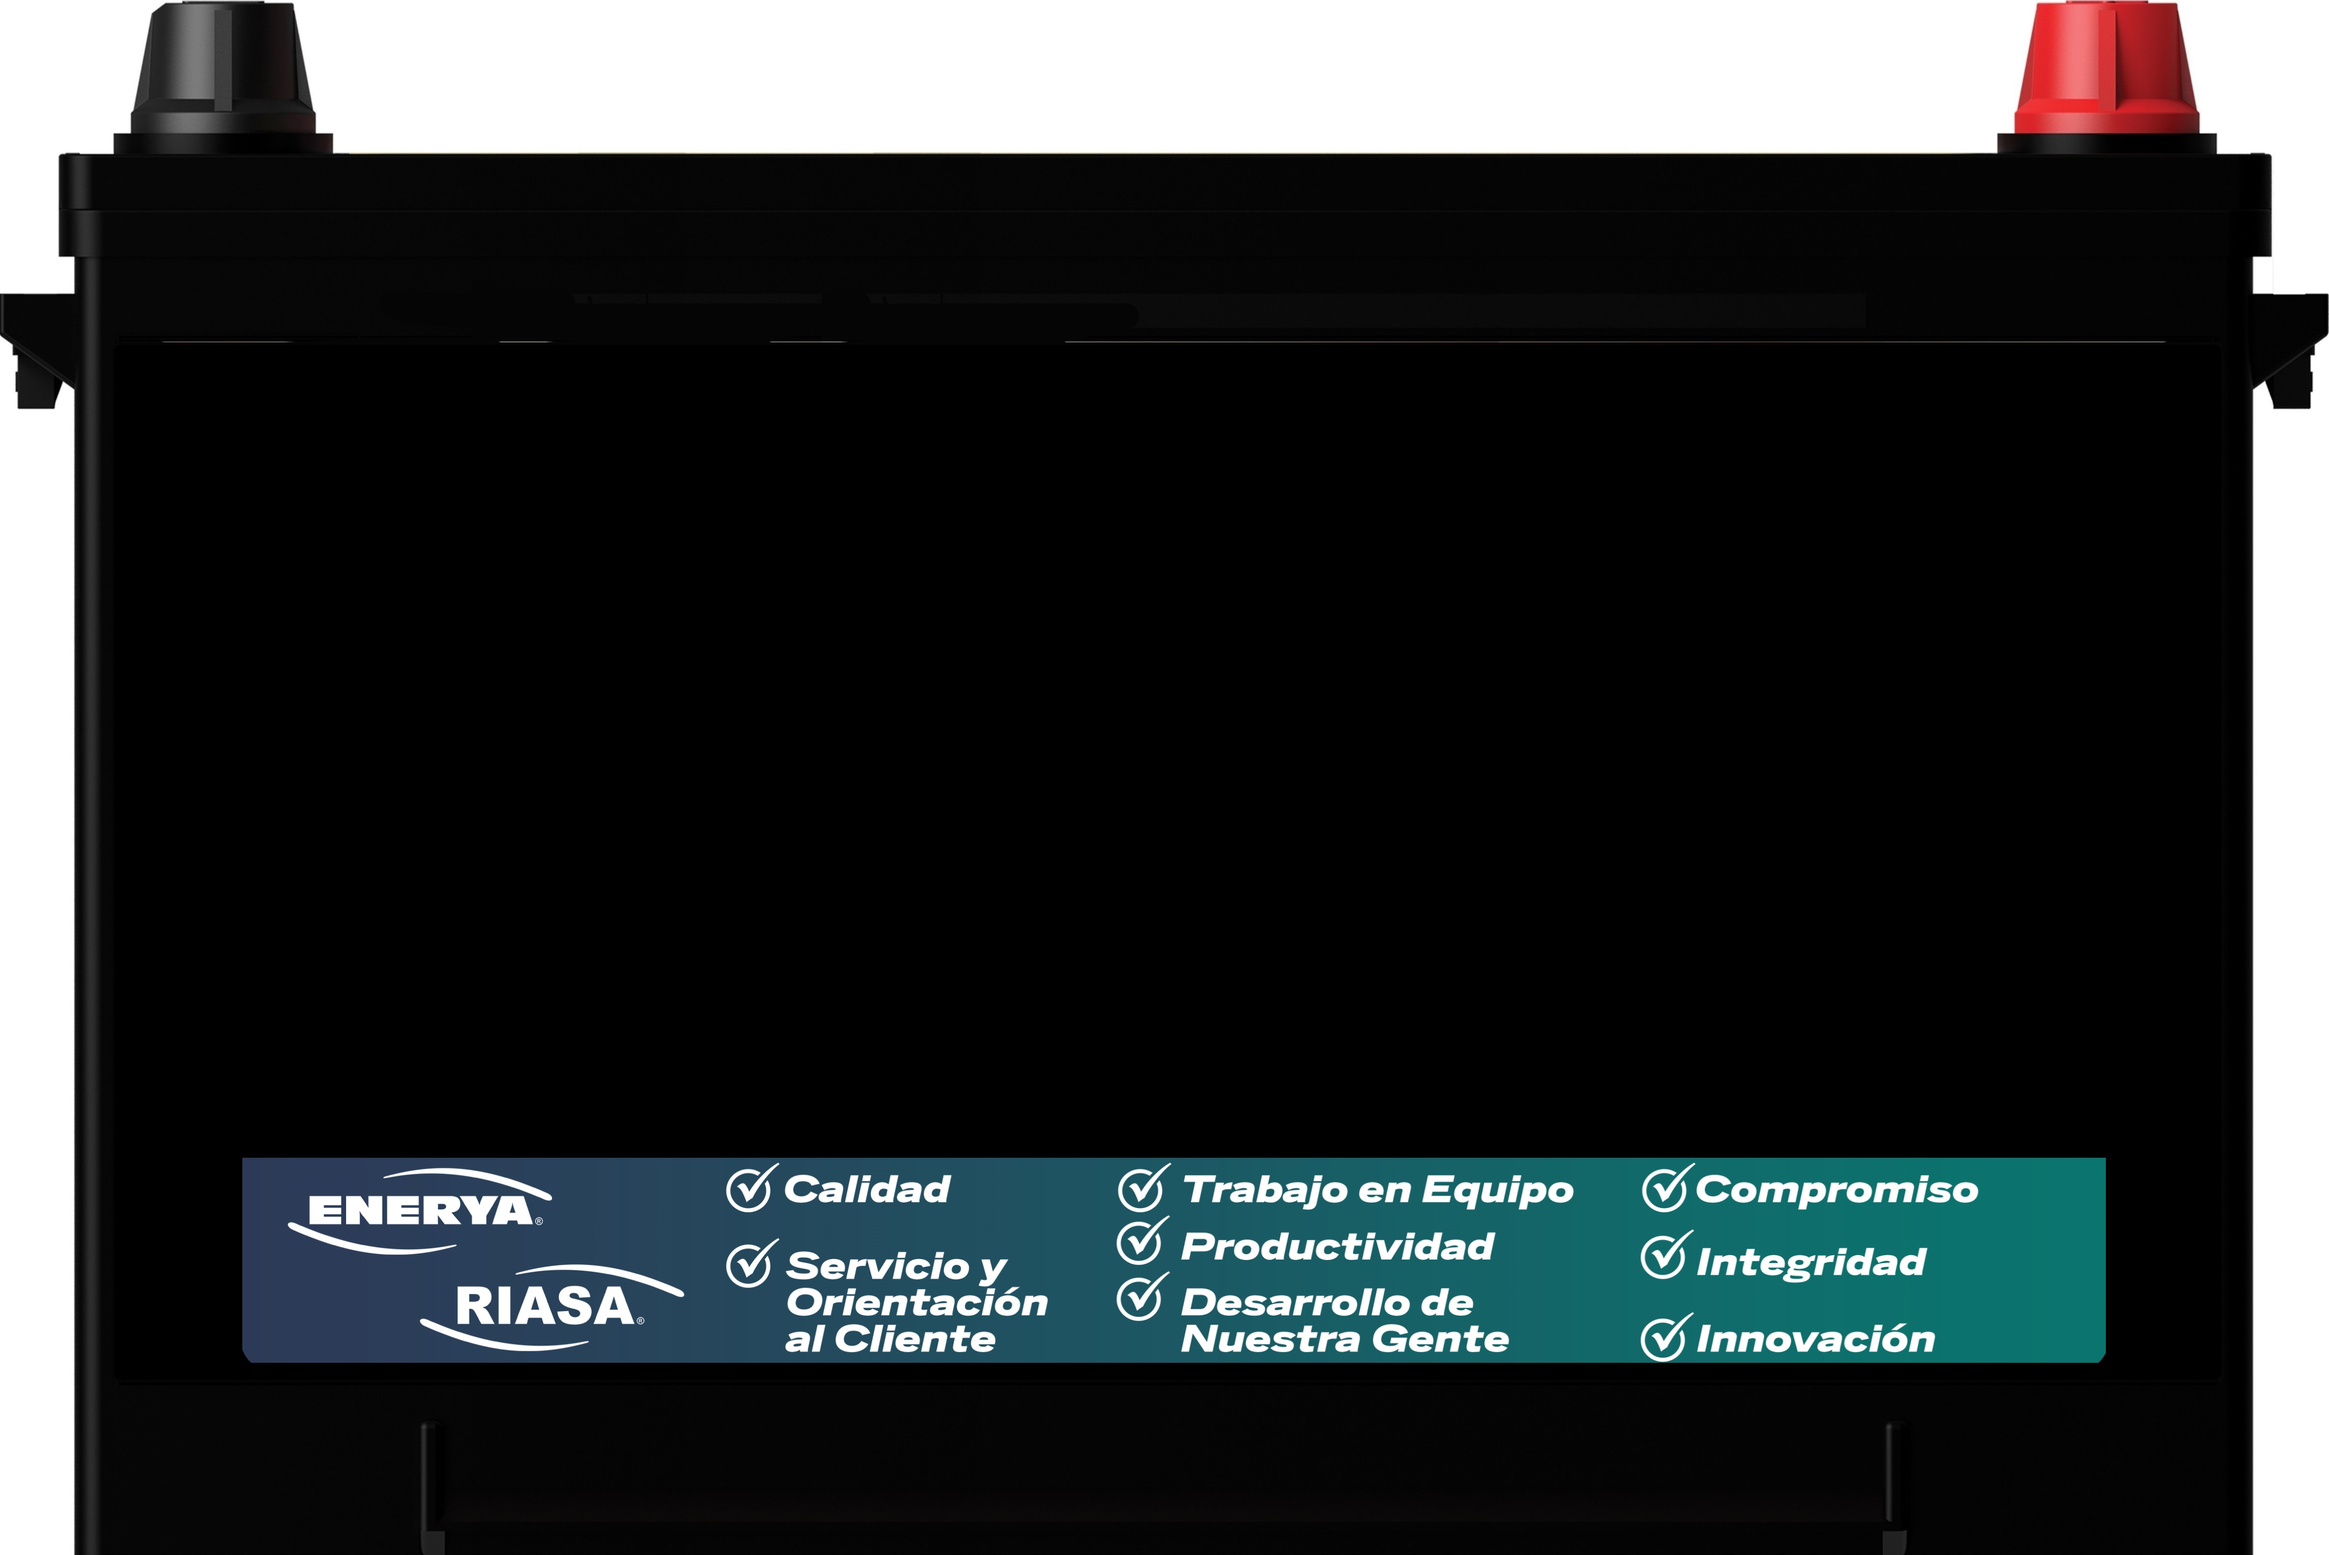
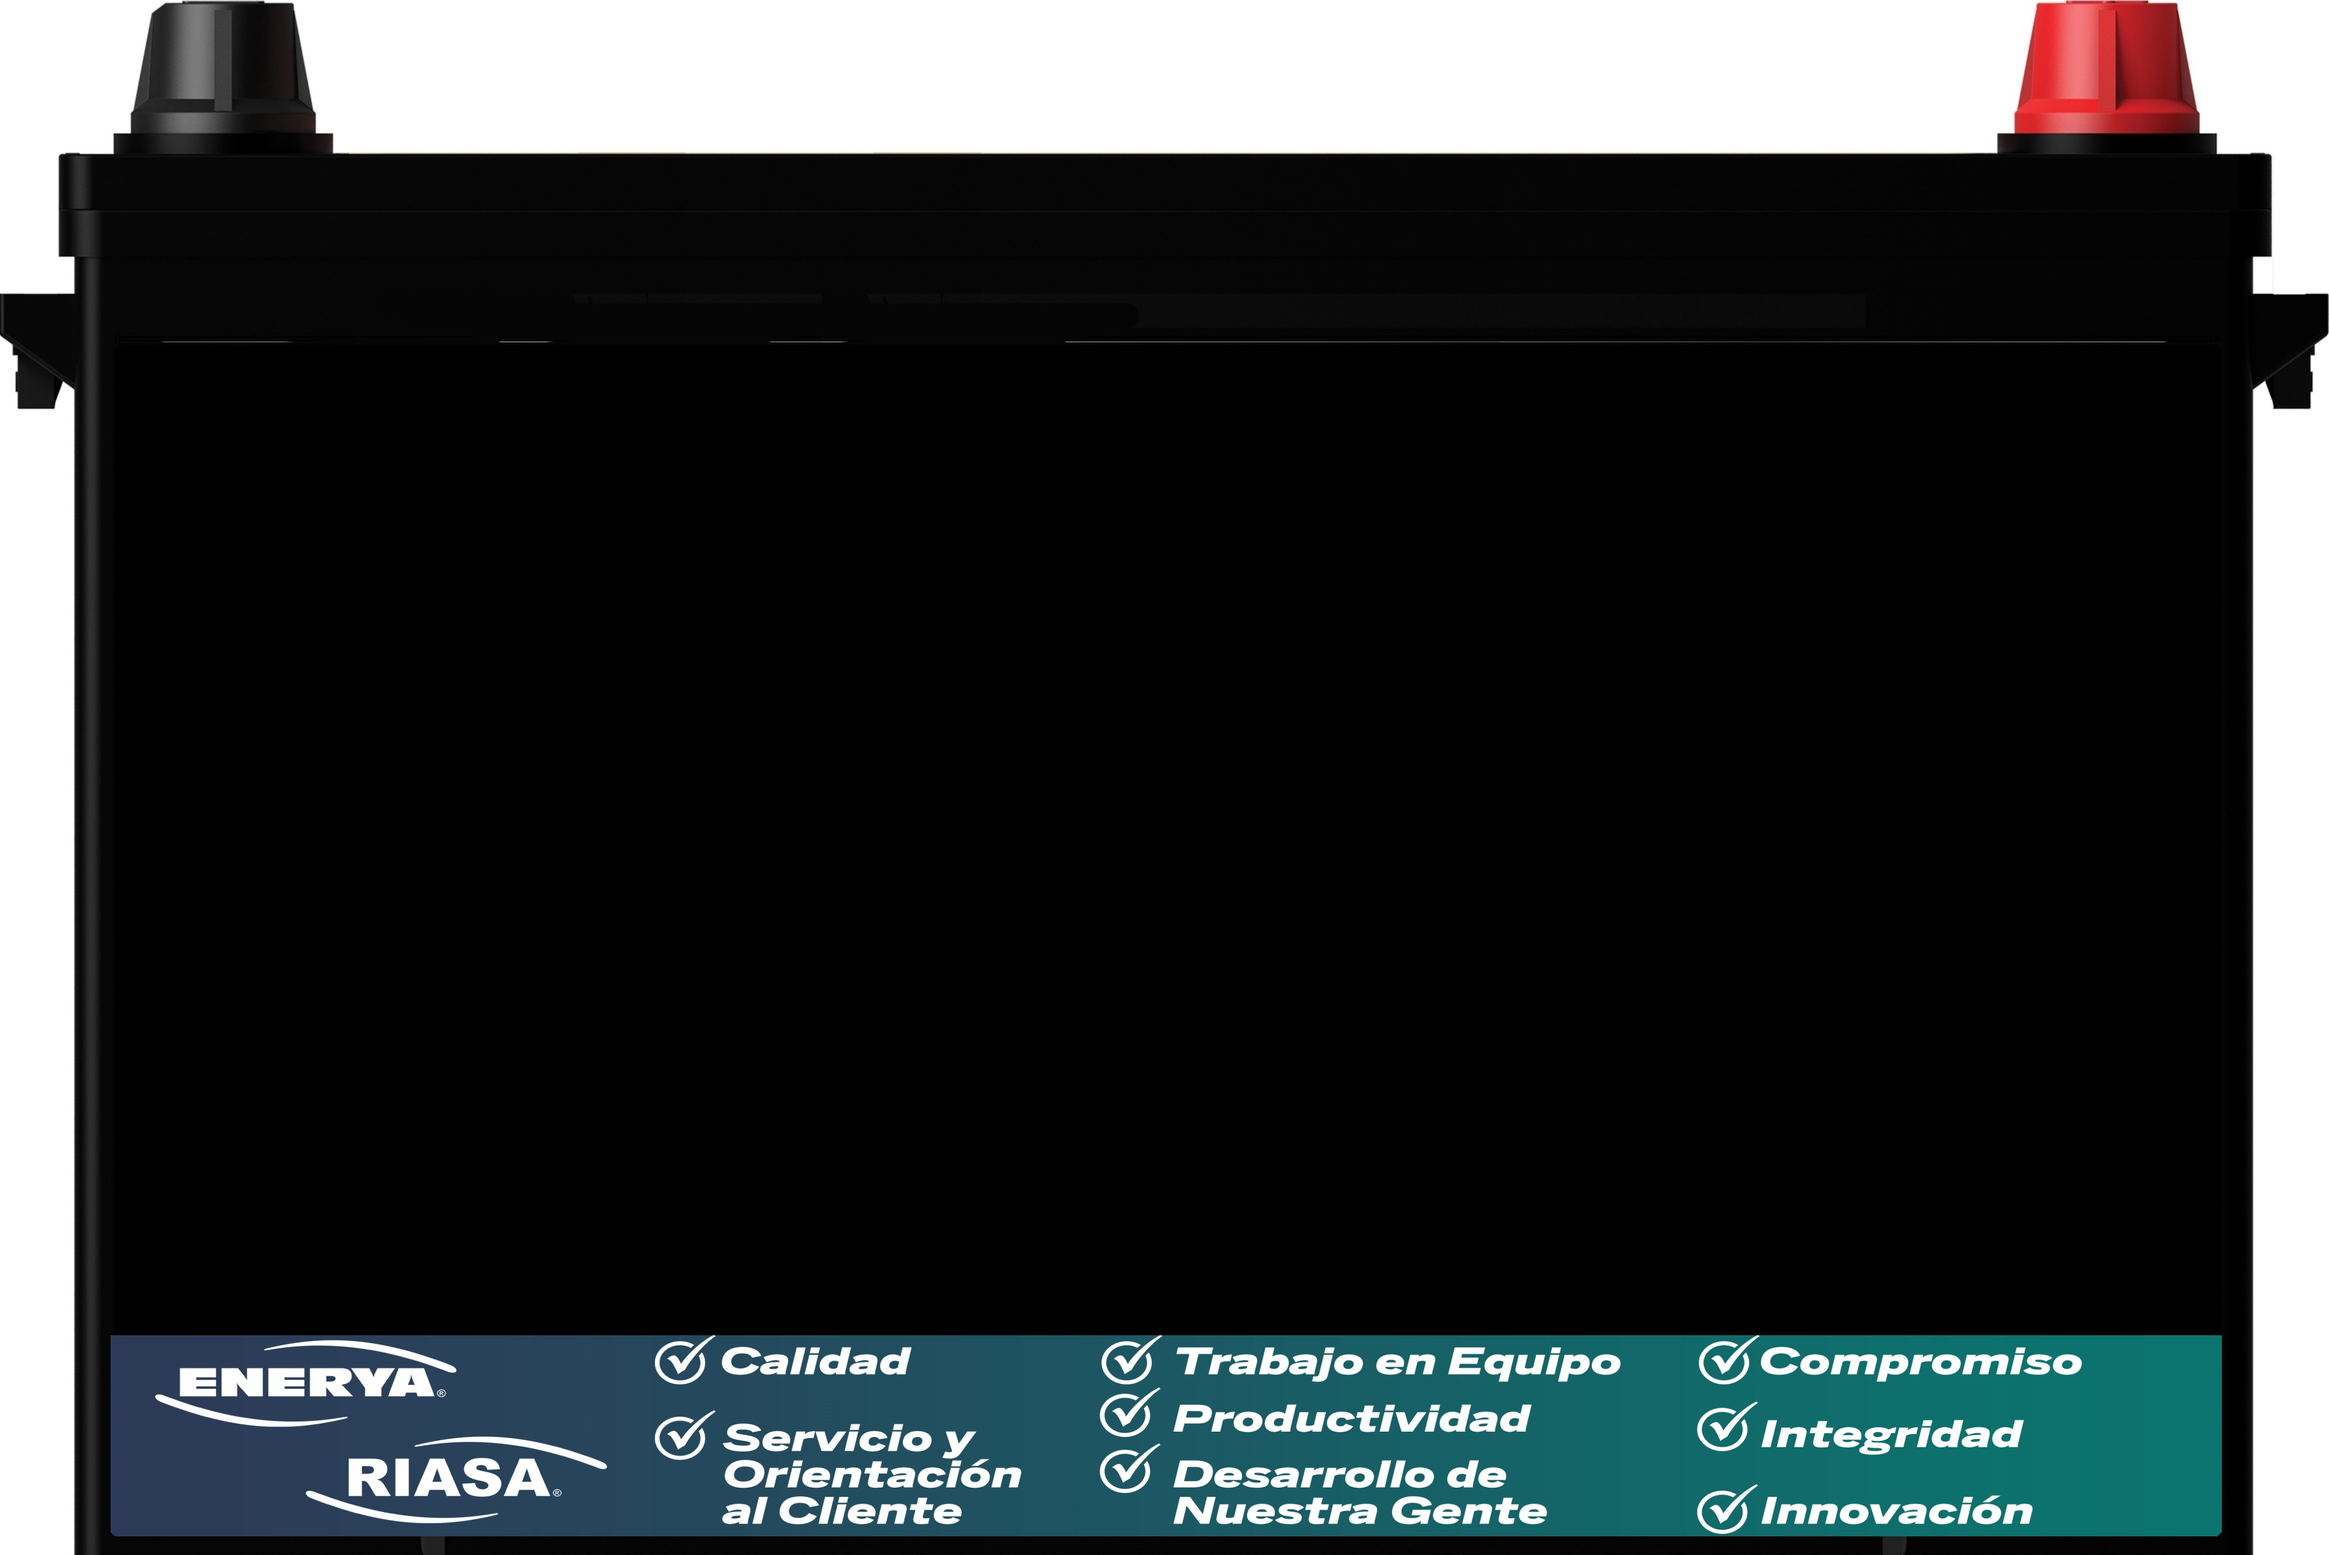
Fuente y Bateria
Se dio formato css a la bateria y se cambio la fuente

Changed region(s): [[0.0312, 0.7436, 0.9683, 0.9915]]

diff --git a/css/css.css b/css/css.css
@@ -1,3 +1,7 @@
+.body-principal{
+    font-family: 'Lexend Deca', sans-serif; 
+}
+
 .cabecera {
     background: linear-gradient(140deg, rgba(255, 255, 255, 1) 25%, rgb(211, 134, 134, 0)26%, rgb(184, 14, 14) 28%, rgb(184, 14, 14) 70%, rgb(211, 134, 134, 0) 72%, rgba(255, 255, 255, 1) 73%);
 
@@ -220,7 +224,7 @@ button {
 
 
 .btn-menu {
-    width: 150px;
+    width: 180px;
 
     background-color: #3ea157;
     color: white;
@@ -635,24 +639,29 @@ button {
 .tablasBatery2,
 .tablasBatery3,
 .tablasBatery4 {
-    width: 170px;
-    font-size: 0.3em
+    width: 195px;
+    font-size: 0.4em
 }
 
-
 .tablasBateryHead {
-    font-size: 0.6em;
-    width: 680px;
-    margin-top: 150px
+    font-size: 0.5em;
+    width: 780px;
+    margin-top: 10vh;
 }
 
 .imgBateria {
-    width: 750px;
+    width: 880px;
     height: 600px;
 }
 
+
 .div-color {
     background-color: black;
+}
+
+.subtitulo{
+    font-size: 1.5em;
+    line-height: 1;
 }
 
 
@@ -708,22 +717,22 @@ button {
         padding: 6px 24px;
     }
 
-    .tablasBatery,
+.tablasBatery,
 .tablasBatery2,
 .tablasBatery3,
 .tablasBatery4 {
-    width: 170px;
-    font-size: 0.3em
+    width: 195px;
+    font-size: 0.4em
 }
 
 .tablasBateryHead {
-    font-size: 0.6em;
-    width: 680px;
-    margin-top: 150px
+    font-size: 0.5em;
+    width: 780px;
+    margin-top: 10vh;
 }
 
 .imgBateria {
-    width: 750px;
+    width: 880px;
     height: 600px;
 }
 
@@ -757,7 +766,7 @@ button {
     .tablasBateryHead {
         font-size: 0.7em;
         width: 800px;
-        margin-top: 160px
+        margin-top: 5vh;
     }
 
     .imgBateria {
@@ -772,32 +781,11 @@ button {
 
 /* X-Large devices (large desktops, 1200px and up)*/
 @media (min-width: 1200px) {
-    .formulario {
-        width: 70%;
-    }
-
-    .div-color {
-        background-color: red;
-    }
-
-    .tablasBatery,
-    .tablasBatery2,
-    .tablasBatery3,
-    .tablasBatery4 {
-        width: 200px;
-        font-size: 0.4em
-    }
-
-    .tablasBateryHead {
-        font-size: 0.7em;
-        width: 800px;
-        margin-top: 160px
-    }
-
-    .imgBateria {
-        width: 900px;
-        height: 550px;
-    }
+    .formulario { width: 70%;}
+    .div-color {background-color: red;}
+    .tablasBatery,.tablasBatery2,.tablasBatery3,.tablasBatery4 { width: 230px; font-size: 0.5em}
+    .tablasBateryHead {font-size: 0.7em; width: 920px;margin-top:8vh;}
+    .imgBateria {width: 1100px; height: 600px;}
 }
 
 /* XX-Large devices (larger desktops, 1400px and up)*/

diff --git a/panel.php b/panel.php
@@ -8,7 +8,7 @@ if (isset($_SESSION['nombre'])) {
         <?php include('head.php'); ?>
     </head>
 
-    <body class="container-fluid d-flex flex-column" style="min-height: 100vh;">
+    <body class="container-fluid d-flex flex-column body-principal" style="min-height: 100vh;">
         <div id="alta-proyectos">
             <!--Encabezado-->
             <div :class="{ 'visible': mostrarHeader, 'oculto': !mostrarHeader }">
@@ -1270,10 +1270,10 @@ if (isset($_SESSION['nombre'])) {
                 </div>
                 <div v-if="ventana=='Generar Valor'">
                     <!--<div class="div-color">
-                dd   
+                Pantalla 
                 </div>-->
                     <div class="scroll-bateria ">
-                        <div class="m-0 " style=" min-width: 768px; width: 100%; height: 100%; position: relative;">
+                        <div class="m-0 " style=" min-width: 900px; width: 100%; height: 100%; position: relative;">
                             <div class="col-12 text-center" style="z-index: 1; position: absolute; top: 50%; left: 50%; transform: translate(-50%, -50%); ">
                                 <img class="imgBateria" src="img/imagenBateriaFondoNegro.jpg"></img>
                             </div>
@@ -1285,7 +1285,7 @@ if (isset($_SESSION['nombre'])) {
 
                                         <div class=" tablasBateryHead d-flex  mx-auto">
                                             <div class="col-9 mt-1 bg-success text-white text-center d-flex align-items-center justify-content-center">
-                                                <h5 class="my-auto pb-1">Generar valor sustentable</h5>
+                                                <h5 class="my-auto">Generar valor sustentable</h5>
                                             </div>
                                             <div class="col-3">
                                                 <table class="mt-1 w-100 ">
@@ -1307,8 +1307,8 @@ if (isset($_SESSION['nombre'])) {
                                         </div>
                                         <div class="d-flex justify-content-center pt-1">
                                             <div class="tablasBatery col-3 px-1 px-lg-2">
-                                                <div class="d-flex  text-center text-white pb-2">
-                                                    <span class="col-6 mt-3 subtitulo">Cliente</span>
+                                                <div class="d-flex  text-center text-white pb-1">
+                                                    <span class="col-6 subtitulo" style="margin-top:11px">Cliente</span>
                                                     <table class="col-6  mt-1  text-center  table-bordered border-dark  ">
                                                         <thead>
 
@@ -1333,7 +1333,7 @@ if (isset($_SESSION['nombre'])) {
                                                         <th>Sustentable <br>(t CO2)</th>
                                                     </thead>
                                                     <tbody class="bg-white">
-                                                        <tr class="align-middle" v-for="objetivos in objetivos_ligados">
+                                                        <tr class="align-middle text-start" v-for="objetivos in objetivos_ligados">
                                                             <th scope="row" v-if="objetivos.nombre_pilares == 'Cliente'">{{objetivos.nombre_objetivos}}</th>
                                                             <td v-if="objetivos.nombre_pilares == 'Cliente'">
                                                                 <label class="text-primary" v-if="buscarCoincidencias(objetivos.nombre_objetivos + ' (' + objetivos.siglas + ')')">
@@ -1356,8 +1356,8 @@ if (isset($_SESSION['nombre'])) {
                                                 </table>
                                             </div>
                                             <div class="tablasBatery2 col-3 px-1 px-lg-2 border-start border-end border-3 border-dark">
-                                                <div class="d-flex  text-white pb-2">
-                                                    <span class="col-6 mt-3 subtitulo">Capital humano</span>
+                                                <div class="d-flex  text-white pb-1">
+                                                    <span class="col-6 subtitulo" style="margin-top:11px">Capital humano</span>
                                                     <table class="col-6  mt-1  text-center  table-bordered border-dark  ">
                                                         <thead>
 
@@ -1381,7 +1381,7 @@ if (isset($_SESSION['nombre'])) {
                                                         <th>Sustentable <br>(t CO2)</th>
                                                     </thead>
                                                     <tbody class="bg-white">
-                                                        <tr class="align-middle" v-for="objetivos in objetivos_ligados">
+                                                        <tr class="align-middle text-start" v-for="objetivos in objetivos_ligados">
                                                             <th scope="row" v-if="objetivos.nombre_pilares == 'Capital Humano'">{{objetivos.nombre_objetivos}}</th>
                                                             <td v-if="objetivos.nombre_pilares == 'Capital Humano'">
                                                                 <label class="text-primary" v-if="buscarCoincidencias(objetivos.nombre_objetivos + ' (' + objetivos.siglas + ')')">
@@ -1404,8 +1404,8 @@ if (isset($_SESSION['nombre'])) {
                                                 </table>
                                             </div>
                                             <div class="tablasBatery3 col-3 px-1 px-lg-2 border-end border-3 border-dark">
-                                                <div class="d-flex text-center text-white pb-2">
-                                                    <span class="col-6 mt-3 subtitulo">Excelencia operativa</span>
+                                                <div class="d-flex text-center text-white pb-1">
+                                                    <span class="col-6 subtitulo" style="margin-top:6px">Excelencia operativa</span>
                                                     <table class="col-6  mt-1  text-center  table-bordered border-dark  ">
                                                         <thead>
 
@@ -1429,7 +1429,7 @@ if (isset($_SESSION['nombre'])) {
                                                         <th>Sustentable <br>(t CO2)</th>
                                                     </thead>
                                                     <tbody class="bg-white">
-                                                        <tr class="align-middle" v-for="(objetivos,index) in objetivos_ligados">
+                                                        <tr class="align-middle text-start" v-for="(objetivos,index) in objetivos_ligados">
 
                                                             <th scope="row" v-if="objetivos.nombre_pilares == 'Excelencia Operativa'">{{objetivos.nombre_objetivos}}</th>
                                                             <td v-if="objetivos.nombre_pilares == 'Excelencia Operativa'">
@@ -1455,8 +1455,8 @@ if (isset($_SESSION['nombre'])) {
                                                 </table>
                                             </div>
                                             <div class="tablasBatery4 col-3 px-1 px-lg-2">
-                                                <div class="d-flex text-center text-white pb-2">
-                                                    <span class="col-6 mt-3 subtitulo">investigacion y desarrollo</span>
+                                                <div class="d-flex text-center text-white pb-1">
+                                                    <span class="col-6 subtitulo" style="margin-top:6px">Investigacion y desarrollo</span>
                                                     <table class="col-6  mt-1  text-center  table-bordered border-dark  ">
                                                         <thead>
 
@@ -1480,7 +1480,7 @@ if (isset($_SESSION['nombre'])) {
                                                         <th>Sustentable <br>(t CO2)</th>
                                                     </thead>
                                                     <tbody class="bg-white">
-                                                        <tr class="align-middle" v-for="objetivos in objetivos_ligados">
+                                                        <tr class="align-middle text-start" v-for="objetivos in objetivos_ligados">
                                                             <th scope="row" v-if="objetivos.nombre_pilares == 'Investigación y Desarrollo'">{{objetivos.nombre_objetivos}}</th>
                                                             <td v-if="objetivos.nombre_pilares == 'Investigación y Desarrollo'">
                                                                 <label class="text-primary" v-if="buscarCoincidencias(objetivos.nombre_objetivos + ' (' + objetivos.siglas + ')')">

diff --git a/head.php b/head.php
@@ -18,6 +18,6 @@
 <!--TITULO SISTEMA-->
 <link rel="preconnect" href="https://fonts.googleapis.com">
 <link rel="preconnect" href="https://fonts.gstatic.com" crossorigin>
-<link href="https://fonts.googleapis.com/css2?family=Archivo+Black&display=swap&family=Rajdhani:wght@500&display=swap&family=Roboto:wght@400&display=swap&family=Onest:wght@300&display=swap&Family=Almarai:wght@400&display=swap" rel="stylesheet" rel="stylesheet"> 
+<link href="https://fonts.googleapis.com/css2?family=Archivo+Black&display=swap&family=Rajdhani:wght@500&display=swap&family=Roboto:wght@400&display=swap&family=Onest:wght@300&display=swap&Family=Almarai:wght@400&display=swap&family=Alfa+Slab+One&family=Lexend+Deca&family=Stint+Ultra+Condensed&display=swap" rel="stylesheet"> 
 <!--VUEJS-->
 
